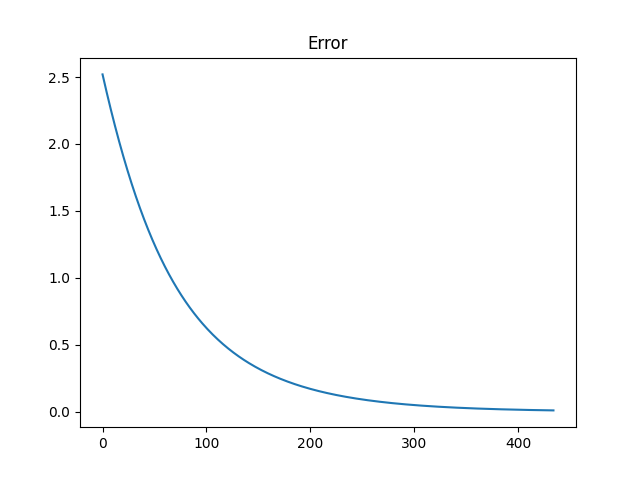
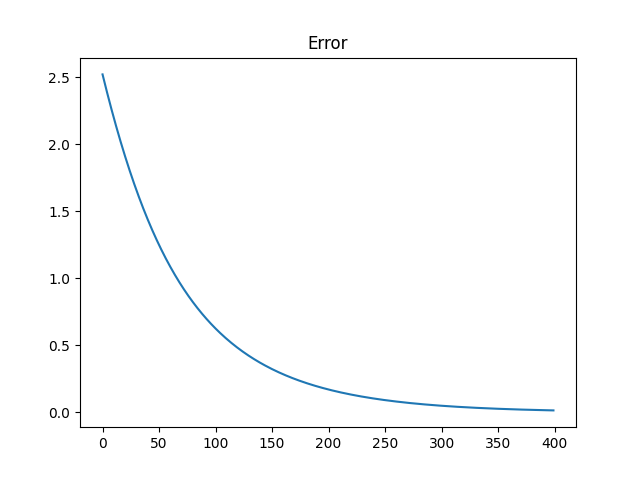
Finish holonomicBase(YXC)+Arm OSC

diff --git a/scripts/darias_energy_control/TIAGo_onePoint_with_holoBaseCXY.py b/scripts/darias_energy_control/TIAGo_onePoint_with_holoBaseCXY.py
@@ -10,10 +10,12 @@ from copy import deepcopy
 import matplotlib.pyplot as plt
 import time
 import math
+from copy import deepcopy
+
 from cep.utils import numpy2torch, torch2numpy
 from cep.liegroups.torch import SO3, SE3
 
-number_iteration = 500  # Define max iteration number
+number_iteration = 400  # Define max iteration number
 dt = 0.01  # Define time step
 
 q_limits = [[0.0, 2.74889357189],
@@ -57,23 +59,49 @@ global w2  # End-effector y frame visualization
 global w3  # End-effector z frame visualization
 
 
-def theta2CosSin(q, robot): # TODO: 07.12
+def CosSin2theta(q: np.array, robot):  # TODO: 07.12 for base continuous joint
 
-    q_ref = np.zeros((robot.nq, 1)) # Define q which will be used in pinochio
-    # Transform theta to cos(theta) and sin(theta) for 8 ignore_caster joints
-    for i in range(8):
-        q_ref[(2 * i)] = np.cos(q[i])[0]
-        q_ref[(2 * i) + 1] = np.sin(q[i])[0]
-    # Transform theta to cos(theta) and sin(theta) for wheel left joint
-    q_ref[17] = math.cos((q[9])[0])
-    q_ref[18] = math.sin((q[9])[0])
-    # Transform theta to cos(theta) and sin(theta) for wheel right joint
-    q_ref[20] = math.cos((q[11])[0])
-    q_ref[21] = math.sin((q[11])[0])
+    '''
+        param: q -> np.array(11, 1)
+        return: q_ref -> np.array(10, 1)
+    '''
 
-    q_ref = q_ref.reshape(robot.nq, ) # *(34,)
+    q_ref = np.zeros((robot.nv, 1))  # (10, 1)
+    continuous_theta_cos = math.acos(q[2])  # Transform cos(theta) to theta
+    continuous_theta_sin = math.asin(q[3])
 
+    q_ref[2] = continuous_theta_cos
+    for i in range(2):  # Prismatic joint Y and X
+        q_ref[i] = q[i]
+    for j in range(3, 10):  # 7 arm revolute joints
+        q_ref[j] = q[j+1]
+
+    q_ref = q_ref.reshape(robot.nv, )
     return q_ref
+
+
+def theta2CosSin(q, robot):  # TODO: 07.12 for base continuous joint
+
+    '''
+        param: q -> np.array(10, 1)
+        return: q_ref -> np.array(11, 1)
+    '''
+
+    q_ref = np.zeros((robot.nq, 1))  # (11, 1), Define q which will be used in pinochio
+    # Transform theta to cos(theta) and sin(theta)
+    continuous_theta_cos = math.cos(q[2])  # Transform cos(theta) to theta
+    continuous_theta_sin = math.sin(q[2])
+
+    q_ref[2] = continuous_theta_cos
+    q_ref[3] = continuous_theta_sin
+    for i in range(2):  # prismatic Y and X joint
+        q_ref[i] = q[i]
+    for j in range(3, 10):  # 7 arm revolute joints
+        q_ref[j+1] = q[j]
+
+    q_ref = q_ref.reshape(robot.nq, )
+    return q_ref
+
 
 def MoveIt_generate_traj():  # TODO: 06.14
 
@@ -278,7 +306,7 @@ def plot_mu(mu_values: list, num: int):
 
 
 def plot_joints(joint_values: list, joint_pos_values: list, num: int):
-    fig, axs = plt.subplots(2, 4)
+    fig, axs = plt.subplots(2, 6)
     t = np.arange(0, num, 1)
 
     j1 = []
@@ -288,6 +316,10 @@ def plot_joints(joint_values: list, joint_pos_values: list, num: int):
     j5 = []
     j6 = []
     j7 = []
+    j8 = []
+    j9 = []
+    j10 = []
+    j11 = []
 
     j1_pos = []
     j2_pos = []
@@ -296,6 +328,9 @@ def plot_joints(joint_values: list, joint_pos_values: list, num: int):
     j5_pos = []
     j6_pos = []
     j7_pos = []
+    j8_pos = []
+    j9_pos = []
+    j10_pos = []
 
     for i in range(number_iteration):
         j1.append(joint_values[i][0])
@@ -305,6 +340,10 @@ def plot_joints(joint_values: list, joint_pos_values: list, num: int):
         j5.append(joint_values[i][4])
         j6.append(joint_values[i][5])
         j7.append(joint_values[i][6])
+        j8.append(joint_values[i][7])
+        j9.append(joint_values[i][8])
+        j10.append(joint_values[i][9])
+        j11.append(joint_values[i][10])
 
         j1_pos.append(joint_pos_values[i][0])
         j2_pos.append(joint_pos_values[i][1])
@@ -313,46 +352,139 @@ def plot_joints(joint_values: list, joint_pos_values: list, num: int):
         j5_pos.append(joint_pos_values[i][4])
         j6_pos.append(joint_pos_values[i][5])
         j7_pos.append(joint_pos_values[i][6])
+        j8_pos.append(joint_pos_values[i][7])
+        j9_pos.append(joint_pos_values[i][8])
+        j10_pos.append(joint_pos_values[i][9])
 
     # q1_des = np.ones((number_iteration, 1)) * np.pi/3
     axs[0, 0].plot(t, j1)
     axs[0, 0].plot(t, j1_pos, '+', linewidth=.02)
-    axs[0, 0].set_title('1st Joint')
+    axs[0, 0].set_title('prismatic Y')
     axs[0, 0].set_ylim(min(j1) - 1, max(j1) + 1)
     # axs[0, 0].plot(t, q1_des, label='Desired q=pi/3')
 
     axs[0, 1].plot(t, j2)
     axs[0, 1].plot(t, j2_pos, '+', linewidth=.02)
-    axs[0, 1].set_title('2nd Joint')
+    axs[0, 1].set_title('prismatic X')
     axs[0, 1].set_ylim(min(j2) - 1, max(j2) + 1)
 
     axs[0, 2].plot(t, j3)
     axs[0, 2].plot(t, j3_pos, '+', linewidth=.02)
-    axs[0, 2].set_title('3rd Joint')
+    axs[0, 2].set_title('Continuous Cos(theta)')
     axs[0, 2].set_ylim(min(j3) - 1, max(j3) + 1)
 
     axs[0, 3].plot(t, j4)
     axs[0, 3].plot(t, j4_pos, '+', linewidth=.02)
-    axs[0, 3].set_title('4th Joint')
+    axs[0, 3].set_title('Continuous Sin(theta)')
     axs[0, 3].set_ylim(min(j4) - 1, max(j4) + 1)
 
-    axs[1, 0].plot(t, j5)
-    axs[1, 0].plot(t, j5_pos, '+', linewidth=.02)
-    axs[1, 0].set_title('5th Joint')
-    axs[1, 0].set_ylim(min(j5) - 1, max(j5) + 1)
+    axs[0, 4].plot(t, j5)
+    axs[0, 4].plot(t, j5_pos, '+', linewidth=.02)
+    axs[0, 4].set_title('1th Joint')
+    axs[0, 4].set_ylim(min(j5) - 1, max(j5) + 1)
 
-    axs[1, 1].plot(t, j6)
-    axs[1, 1].plot(t, j6_pos, '+', linewidth=.02)
-    axs[1, 1].set_title('6th Joint')
-    axs[1, 1].set_ylim(min(j6) - 1, max(j6) + 1)
+    axs[0, 5].plot(t, j6)
+    axs[0, 5].plot(t, j6_pos, '+', linewidth=.02)
+    axs[0, 5].set_title('2th Joint')
+    axs[0, 5].set_ylim(min(j6) - 1, max(j6) + 1)
 
-    axs[1, 2].plot(t, j7)
-    axs[1, 2].plot(t, j7_pos, '+', linewidth=.02)
-    axs[1, 2].set_title('7th Joint')
-    axs[1, 2].set_ylim(min(j7) - 1, max(j7) + 1)
+    axs[1, 0].plot(t, j7)
+    axs[1, 0].plot(t, j7_pos, '+', linewidth=.02)
+    axs[1, 0].set_title('3th Joint')
+    axs[1, 0].set_ylim(min(j7) - 1, max(j7) + 1)
+
+    axs[1, 1].plot(t, j8)
+    axs[1, 1].plot(t, j8_pos, '+', linewidth=.02)
+    axs[1, 1].set_title('4th Joint')
+    axs[1, 1].set_ylim(min(j8) - 1, max(j8) + 1)
+
+    axs[1, 2].plot(t, j9)
+    axs[1, 2].plot(t, j9_pos, '+', linewidth=.02)
+    axs[1, 2].set_title('5th Joint')
+    axs[1, 2].set_ylim(min(j9) - 1, max(j9) + 1)
+
+    axs[1, 3].plot(t, j10)
+    axs[1, 3].plot(t, j10_pos, '+', linewidth=.02)
+    axs[1, 3].set_title('6th Joint')
+    axs[1, 3].set_ylim(min(j10) - 1, max(j10) + 1)
+
+    axs[1, 4].plot(t, j11)
+    axs[1, 4].set_title('7th Joint')
+    axs[1, 4].set_ylim(min(j11) - 1, max(j11) + 1)
 
     plt.show()
 
+def plot_joints_pybullet(joint_pos_values: list, num: int):
+    fig, axs = plt.subplots(2, 6)
+    t = np.arange(0, num, 1)
+
+    j1 = []
+    j2 = []
+    j3 = []
+    j4 = []
+    j5 = []
+    j6 = []
+    j7 = []
+    j8 = []
+    j9 = []
+    j10 = []
+
+    for i in range(number_iteration):
+
+        j1.append(joint_pos_values[i][0])
+        j2.append(joint_pos_values[i][1])
+        j3.append(joint_pos_values[i][2])
+        j4.append(joint_pos_values[i][3])
+        j5.append(joint_pos_values[i][4])
+        j6.append(joint_pos_values[i][5])
+        j7.append(joint_pos_values[i][6])
+        j8.append(joint_pos_values[i][7])
+        j9.append(joint_pos_values[i][8])
+        j10.append(joint_pos_values[i][9])
+
+    # q1_des = np.ones((number_iteration, 1)) * np.pi/3
+    axs[0, 0].plot(t, j1)
+    axs[0, 0].set_title('prismatic Y')
+    axs[0, 0].set_ylim(min(j1) - 1, max(j1) + 1)
+    # axs[0, 0].plot(t, q1_des, label='Desired q=pi/3')
+
+    axs[0, 1].plot(t, j2)
+    axs[0, 1].set_title('prismatic X')
+    axs[0, 1].set_ylim(min(j2) - 1, max(j2) + 1)
+
+    axs[0, 2].plot(t, j3)
+    axs[0, 2].set_title('Continuous')
+    axs[0, 2].set_ylim(min(j3) - 1, max(j3) + 1)
+
+    axs[0, 3].plot(t, j4)
+    axs[0, 3].set_title('1th Joint')
+    axs[0, 3].set_ylim(min(j4) - 1, max(j4) + 1)
+
+    axs[0, 4].plot(t, j5)
+    axs[0, 4].set_title('2th Joint')
+    axs[0, 4].set_ylim(min(j5) - 1, max(j5) + 1)
+
+    axs[1, 0].plot(t, j6)
+    axs[1, 0].set_title('3th Joint')
+    axs[1, 0].set_ylim(min(j6) - 1, max(j6) + 1)
+
+    axs[1, 1].plot(t, j7)
+    axs[1, 1].set_title('4th Joint')
+    axs[1, 1].set_ylim(min(j7) - 1, max(j7) + 1)
+
+    axs[1, 2].plot(t, j8)
+    axs[1, 2].set_title('5th Joint')
+    axs[1, 2].set_ylim(min(j8) - 1, max(j8) + 1)
+
+    axs[1, 3].plot(t, j9)
+    axs[1, 3].set_title('6th Joint')
+    axs[1, 3].set_ylim(min(j9) - 1, max(j9) + 1)
+
+    axs[1, 4].plot(t, j10)
+    axs[1, 4].set_title('7th Joint')
+    axs[1, 4].set_ylim(min(j10) - 1, max(j10) + 1)
+
+    plt.show()
 
 def plot_euclidiean_dist(dist_values, num):
     fig, axs = plt.subplots(1, 1)
@@ -581,10 +713,10 @@ if __name__ == '__main__':
 
         print("============= Start Update ", x_desired, '=============', ii, "th =============")
 
-        # TODO: Check the initial 7 q values in Pinocchio
+        # TODO: Check the initial 11 q values in Pinocchio
         print('1 q: ', q)
 
-        # TODO: Check the initial  7 joint states in PYBULLET
+        # TODO: Check the initial  10 joint states in PYBULLET
         check_joint_states = getPosVelJoints(robotId, joint_indexes)
         # print('check_joint_states: ', check_joint_states)
 
@@ -605,7 +737,7 @@ if __name__ == '__main__':
 
         # TODO: Get current state(Position and orientation, velocity)
         cur_dx_vec = pin.getFrameVelocity(robot.model, robot.data, EE_idx, pin.ReferenceFrame.WORLD).vector
-        cur_x = se3ToTransfrom(cur_x)  # To 4x4 Transformation matrix #
+        cur_x = se3ToTransfrom(cur_x)  # To 4x4 Transformation matrix
         cur_dx = numpy2torch(cur_dx_vec)
         state = [cur_x, cur_dx]
 
@@ -644,6 +776,10 @@ if __name__ == '__main__':
                               torch.inverse(torch.matmul(J, J.T) + (damp ** 2 * Idt)))  # TODO: Add damped pseudoinverse
         ddq = torch.matmul(JJ_acc, mu)
         ddq = torch2numpy(ddq)
+
+        # TODO: Euler discretization
+        q = CosSin2theta(q, robot)  # TODO: Transform (cos, sin) to theta, 07.12
+
         dt = 0.01
         dq = dq + ddq * dt
         q = q + dq * dt
@@ -679,6 +815,9 @@ if __name__ == '__main__':
         for jj in range(len(joint_indexes)):  # TODO: PYBULLET set joint positions
             p.resetJointState(robotId, joint_indexes[jj], q[jj])
             #p.resetJointState(robotId, joint_indexes[jj], q_des[jj])
+
+        # TODO: Transform thets to (cos, sin), 07.12
+        q = theta2CosSin(q, robot)
 
         # TODO: RECORD joint positions from Pinocchio, XYZ position, joint values from PYBULLET
         joint_values.append(q)
@@ -727,6 +866,7 @@ if __name__ == '__main__':
     # # TODO: Plot
     plot_mu(mu_values, number_iteration)
     plot_joints(joint_values, joint_pos_values, number_iteration)
+    plot_joints_pybullet(joint_pos_values, number_iteration)
     plot_error(error_values, number_iteration)
     plot_euclidiean_dist(dist_values, number_iteration)
     plot_xyz(x_values, y_values, z_values, number_iteration)
